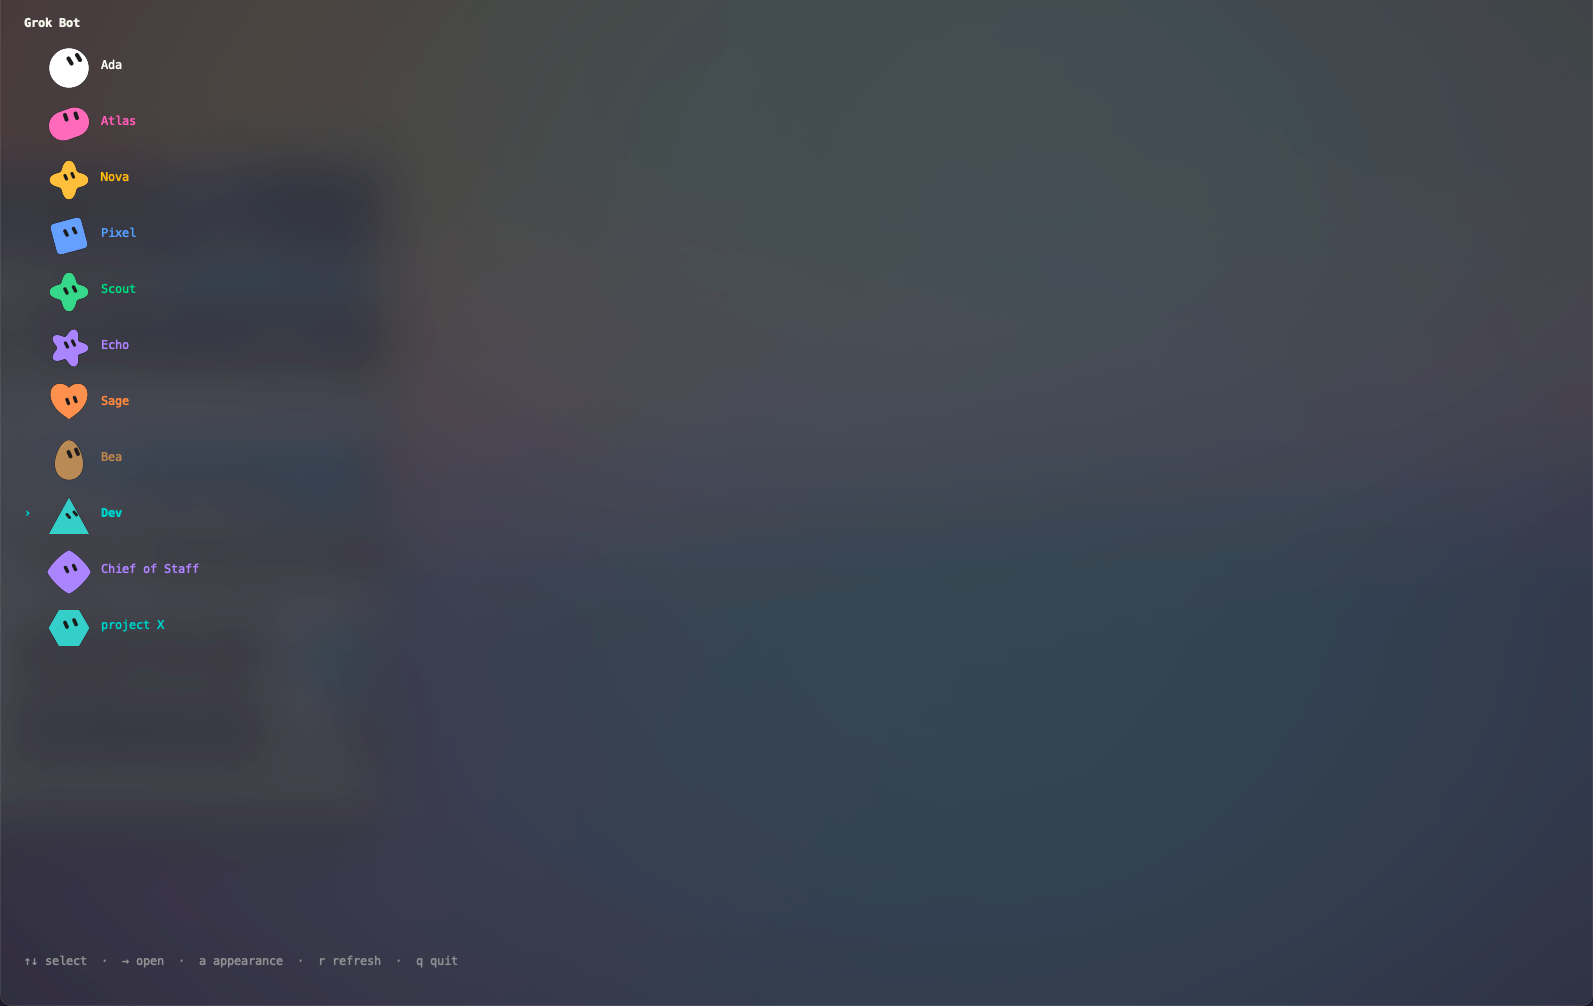
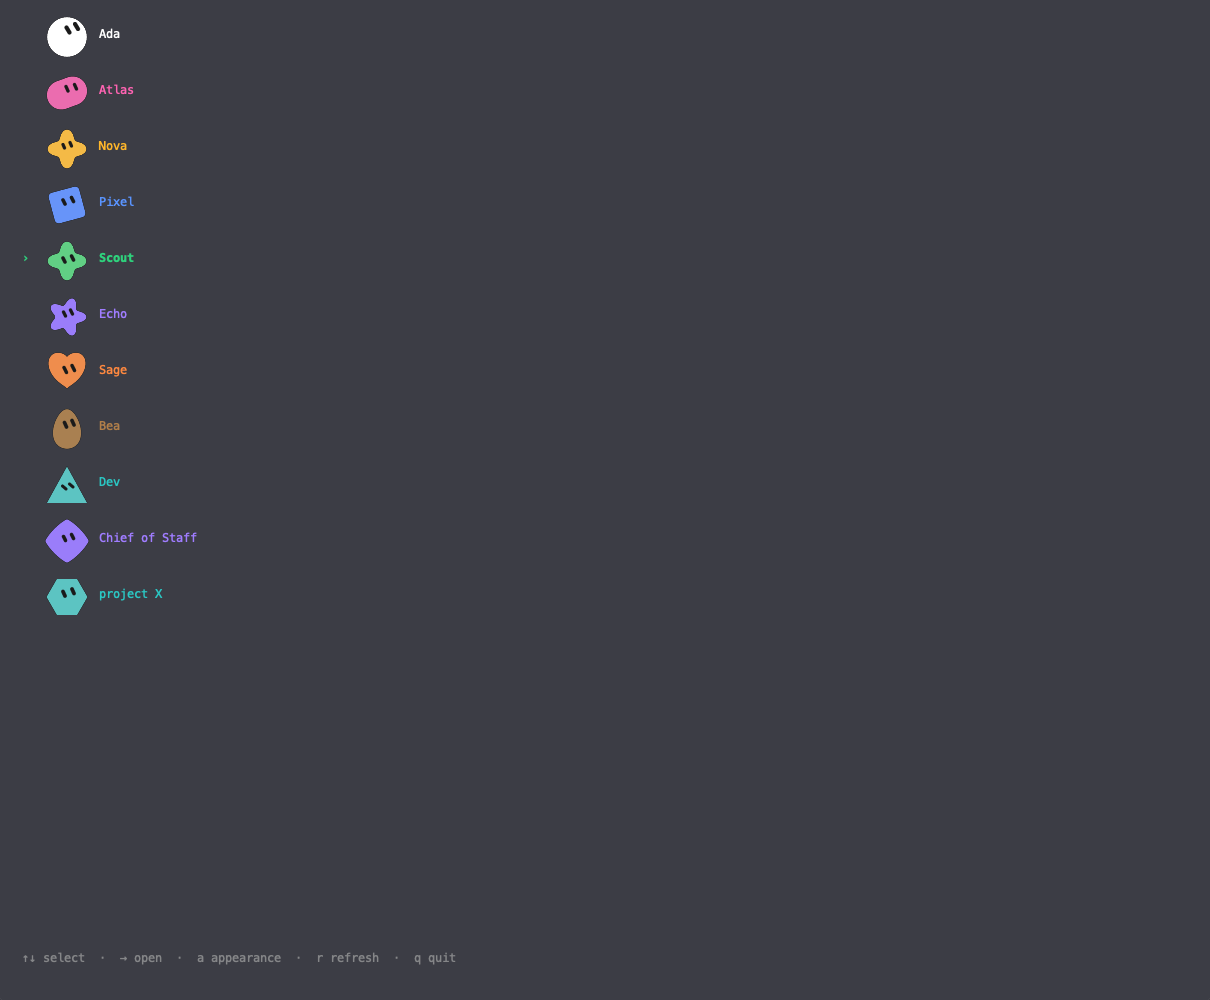
docs: refresh screenshots with current English image demo

diff --git a/src/client/mock.js b/src/client/mock.js
@@ -10,17 +10,17 @@ export const CHIEF_ID = "44444444-4444-4444-8444-444444444444";
 export const PROJECT_X_ID = "55555555-5555-4555-8555-555555555555";
 /** Checked-in PNG so `npm start -- --mock` can draw a real picture in Ghostty. */
 export function mockPhotoPath() {
-    return fileURLToPath(new URL("../../fixtures/mock-photo.png", import.meta.url));
+    return fileURLToPath(new URL("../../fixtures/circle-study.png", import.meta.url));
 }
 function defaultTranscripts(agents) {
  const bot=agents.find(a=>a.id===ADA_ID)||agents[0];
  if(!bot)return {};
  return {...Object.fromEntries(agents.filter(a=>a.id!==bot.id).map(a=>[a.id,[{id:'welcome-'+a.id,role:'assistant',speaker:a.name,text:`Hi, I'm ${a.name}. This is an offline demo. Choose a topic and let's explore it together.`,timestampMs:1}]])),[bot.id]:[
   {id:'demo-1',role:'assistant',speaker:bot.name,text:"Hi! I can help you plan, write, and explore ideas. What are we working on today?",timestampMs:1},
-  {id:'demo-2',role:'user',speaker:'you',text:"Help me plan a small creative project for the weekend.",timestampMs:2},
-  {id:'demo-3',role:'assistant',speaker:bot.name,text:"Let's make a tiny photo journal.\n\n1. Pick a theme: light, color, or everyday details.\n2. Take five photos on a short walk.\n3. Add one sentence to each image.\n\nKeep it simple: one afternoon, one story.",timestampMs:3},
-  {id:'demo-4',role:'user',speaker:'you',text:"Here is my first photo. What do you think?",images:[{alt:'demo.png'}],reactions:[{emoji:'👍',by:'Ada'}],timestampMs:4},
-  {id:'demo-5',role:'assistant',speaker:bot.name,text:"A lovely start! Try pairing it with a short caption about what caught your eye. ✨\n\nThis is an offline demo conversation. No messages are sent to a live bot.",timestampMs:5}
+  {id:'demo-2',role:'user',speaker:'you',text:"Help me design a friendly identity for a small creative studio.",timestampMs:2},
+  {id:'demo-3',role:'assistant',speaker:bot.name,text:"Let's build a tiny visual identity.\n\n1. Start with one simple, memorable silhouette.\n2. Pick a signature color and a neutral alternative.\n3. Check that the eyes remain clear at small sizes.\n\nKeep it warm, playful, and easy to recognize.",timestampMs:3},
+  {id:'demo-4',role:'user',speaker:'you',text:"Here are two directions. Which one feels more playful?",images:[{path:mockPhotoPath(),alt:'circle-study.png'},{path:fileURLToPath(new URL('../../fixtures/capsule-study.png',import.meta.url)),alt:'capsule-study.png'}],reactions:[{emoji:'👍',by:'Ada'}],timestampMs:4},
+  {id:'demo-5',role:'assistant',speaker:bot.name,text:"The pink capsule feels more playful. The white circle is a quieter alternative. ✨\n\nUse the capsule for the main identity, and keep the circle for a neutral theme.\n\nThis is an offline demo conversation. No messages are sent to a live bot.",timestampMs:5}
  ]};
 }
 const DEFAULT_AGENTS = [

diff --git a/README.md b/README.md
@@ -14,7 +14,9 @@ Both upstream projects are MIT licensed. See [attribution and modification detai
 All screenshots below use English offline fixtures. No real accounts or private conversations are shown.
 
 ![Bot gallery](docs/screenshots/bots.png)
-![Conversation](docs/screenshots/chat.png)
+![Conversation with inline image thumbnails](docs/screenshots/chat.png)
+![Staged image previews above the composer](docs/screenshots/attachments.png)
+![Avatar and color settings](docs/screenshots/appearance.png)
 
 ## Install
 
